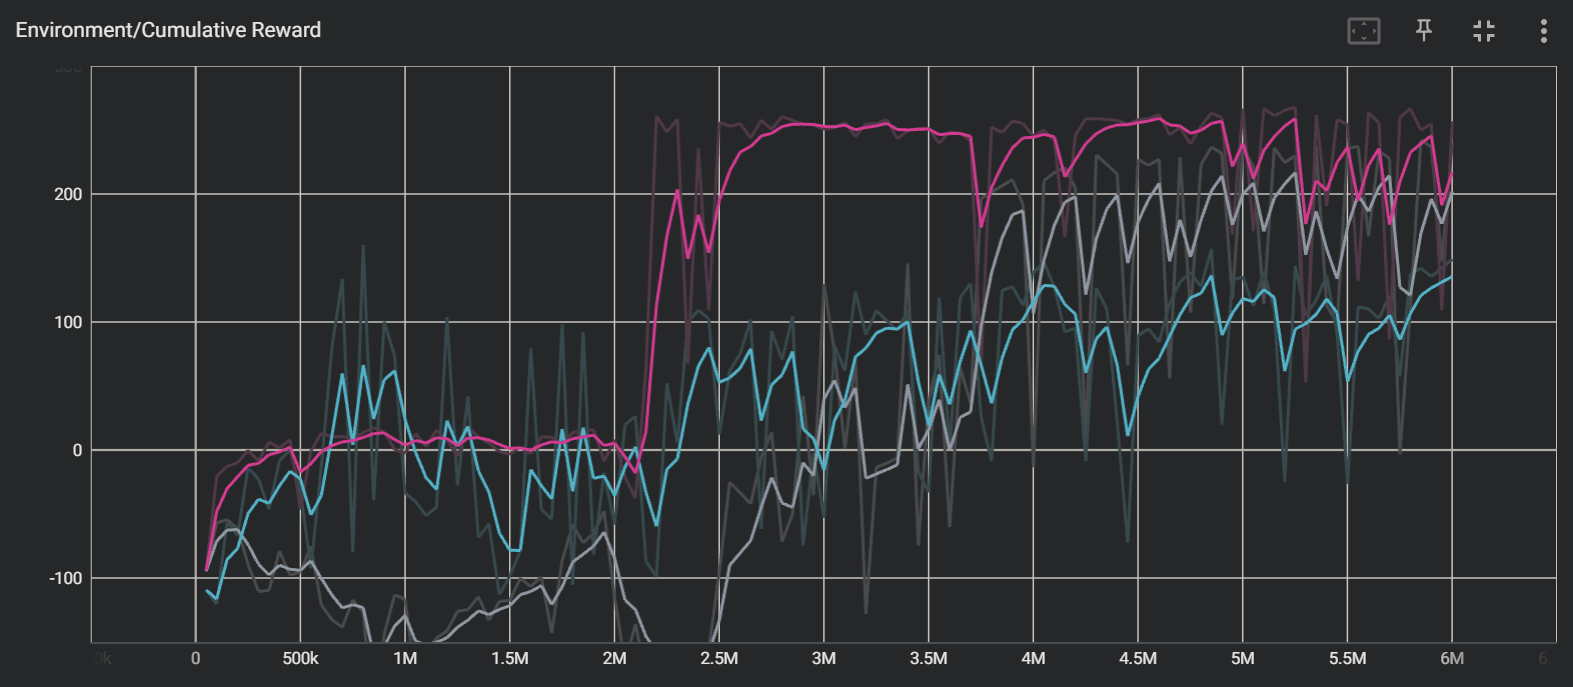
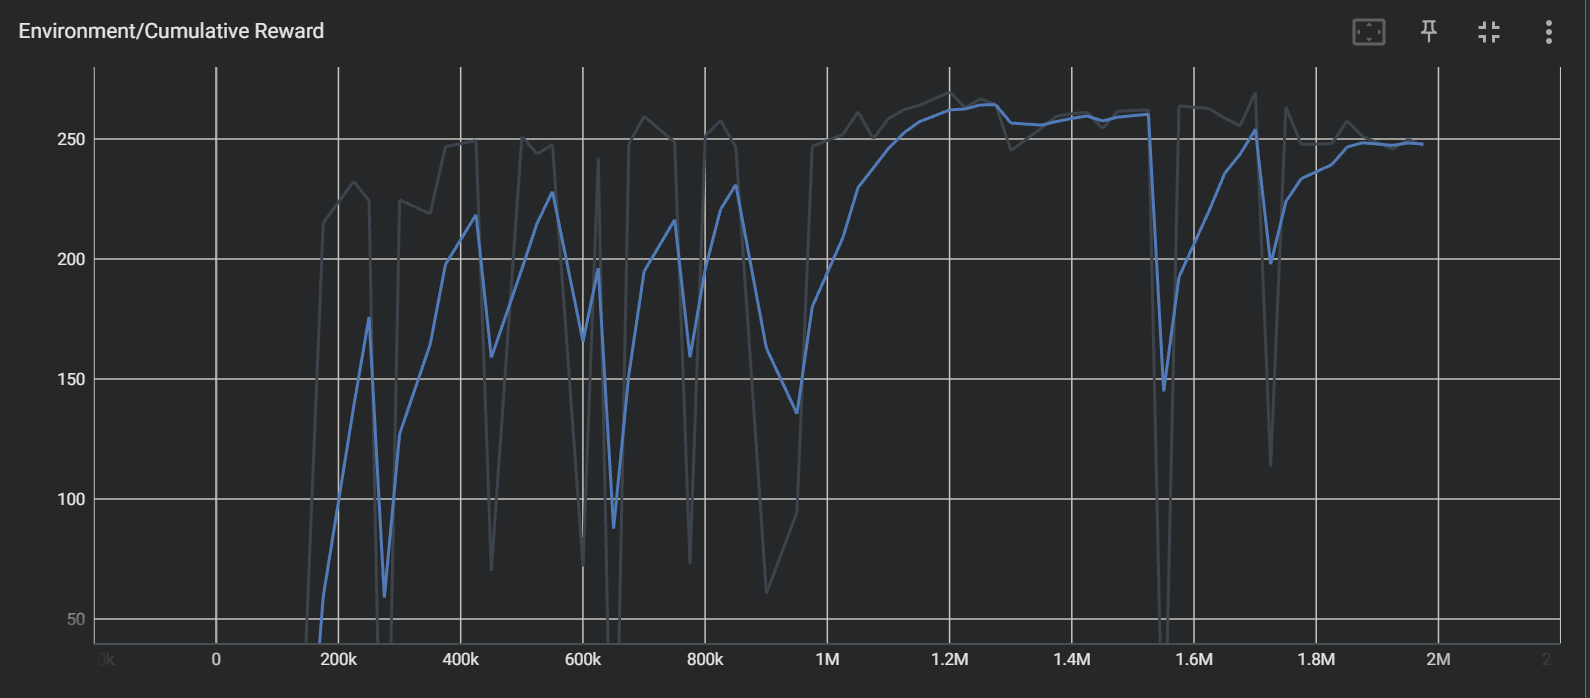
Update README

diff --git a/README.md b/README.md
@@ -28,21 +28,26 @@ If you want to know how to use, see details in [sample codes](samples/).
 - [ ] A3C
 - [ ] SAC
 - [ ] Intrinsic Curiosity Module (ICM)
-## Experiment
+## Recent Experiment
 
 ### BipedalWalker-v3 with PPO
 
-See details of [BipedalWalker-v3](https://github.com/openai/gym/wiki/BipedalWalker-v2) environment.
+Training experiment in OpenAI Gym [BipedalWalker-v3](https://github.com/openai/gym/wiki/BipedalWalker-v2) which is continuous action problem.
 
 Fig 1. [BipedalWalker-v3](https://github.com/openai/gym/wiki/BipedalWalker-v2) with PPO agent:
 
 ![](images/bipedal-walker-v3-ppo-cumulative-reward-graph.png)
 
-* gray - no gradient clipping
-* sky - gradient clipping with 0.5
-* pink - gradient clipping with 5.0
+* [configuration](config/bipedal_walker_v3_ppo.yaml)
+* [sample code](samples/bipedal_walker_v3_ppo.py)
 
-Source Code: [bipedal_walker_v3_ppo.py](samples/bipedal_walker_v3_ppo.py)
+You can train it using the command:
+
+```
+$ python samples/bipedal_walker_v3_ppo.py
+```
+
+If paging file error happens, see [Paging File Error](#paging-file-error).
 
 ## Setup
 
@@ -101,6 +106,19 @@ Fig 2. [CartPole-v1](https://github.com/openai/gym/wiki/CartPole-v0) with PPO ag
 
 * [configuration](config/cartpole_v1_ppo.yaml)
 * [sample code](samples/cartpole_v1_ppo.py)
+
+### Paging File Error
+
+When you use too many workers (e.g., greater than 8), because of too many multi parallel environments in multi threads, **"The paging file is too small for this operation to complete."** error may happen. If it happens, you can mitigate it using the command (Windows):
+
+```
+$ pip install pefile
+$ python fixNvPe.py --input=C:\<Anaconda3 Path>\envs\aine-drl\Lib\site-packages\torch\lib\*.dll
+```
+
+`<Anaconda3 Path>` is one in which your Anaconda3 is installed.
+
+Reference: [cobryan05/fixNvPe.py (Github)](https://gist.github.com/cobryan05/7d1fe28dd370e110a372c4d268dcb2e5)  
 
 ## Module
 
